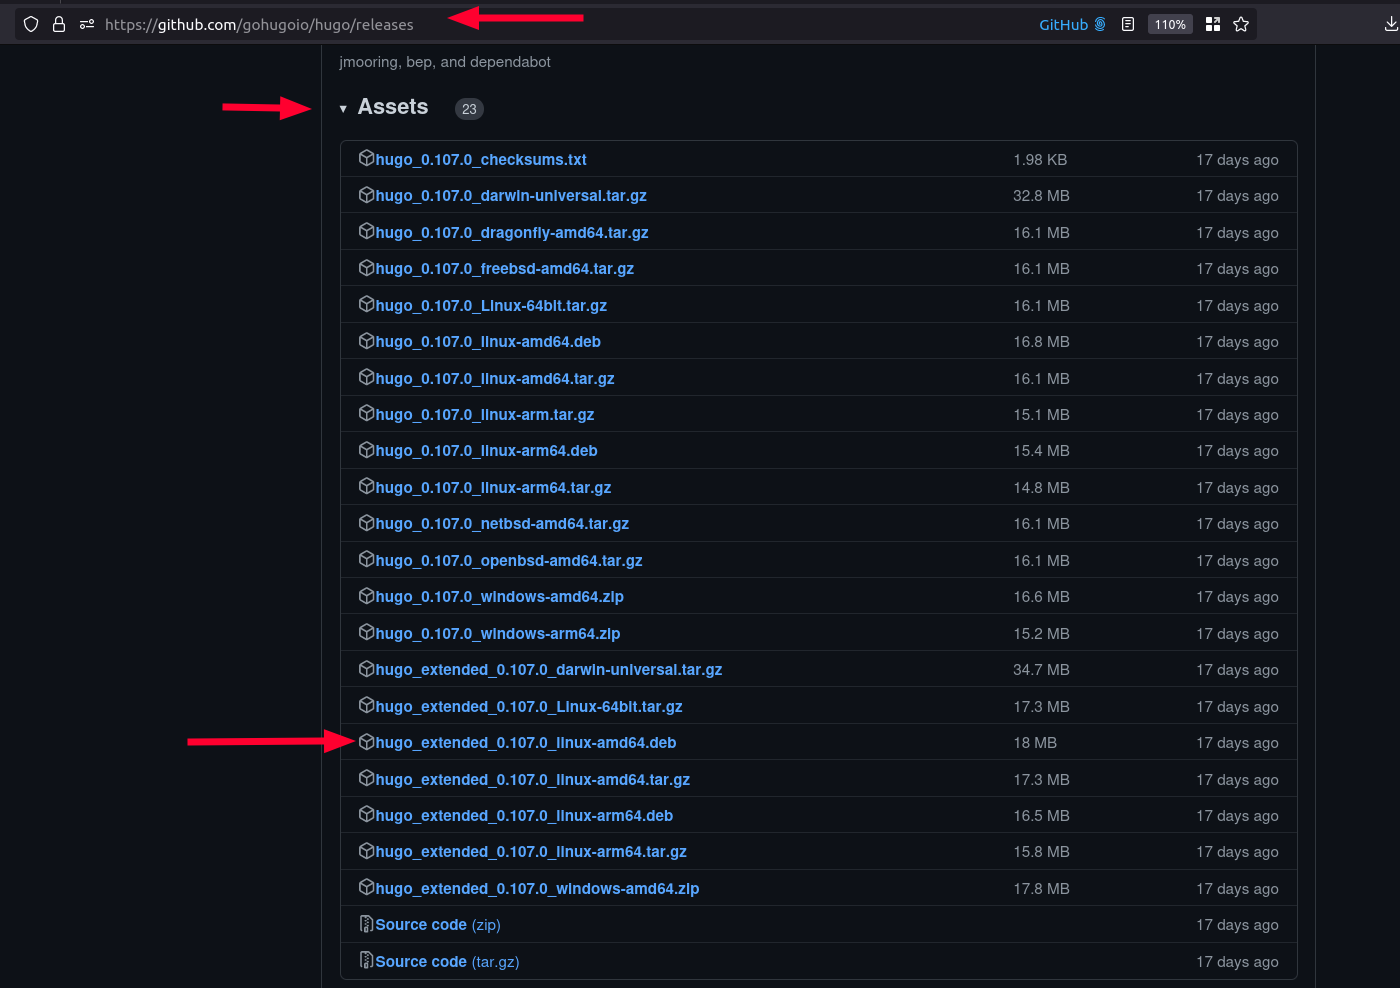
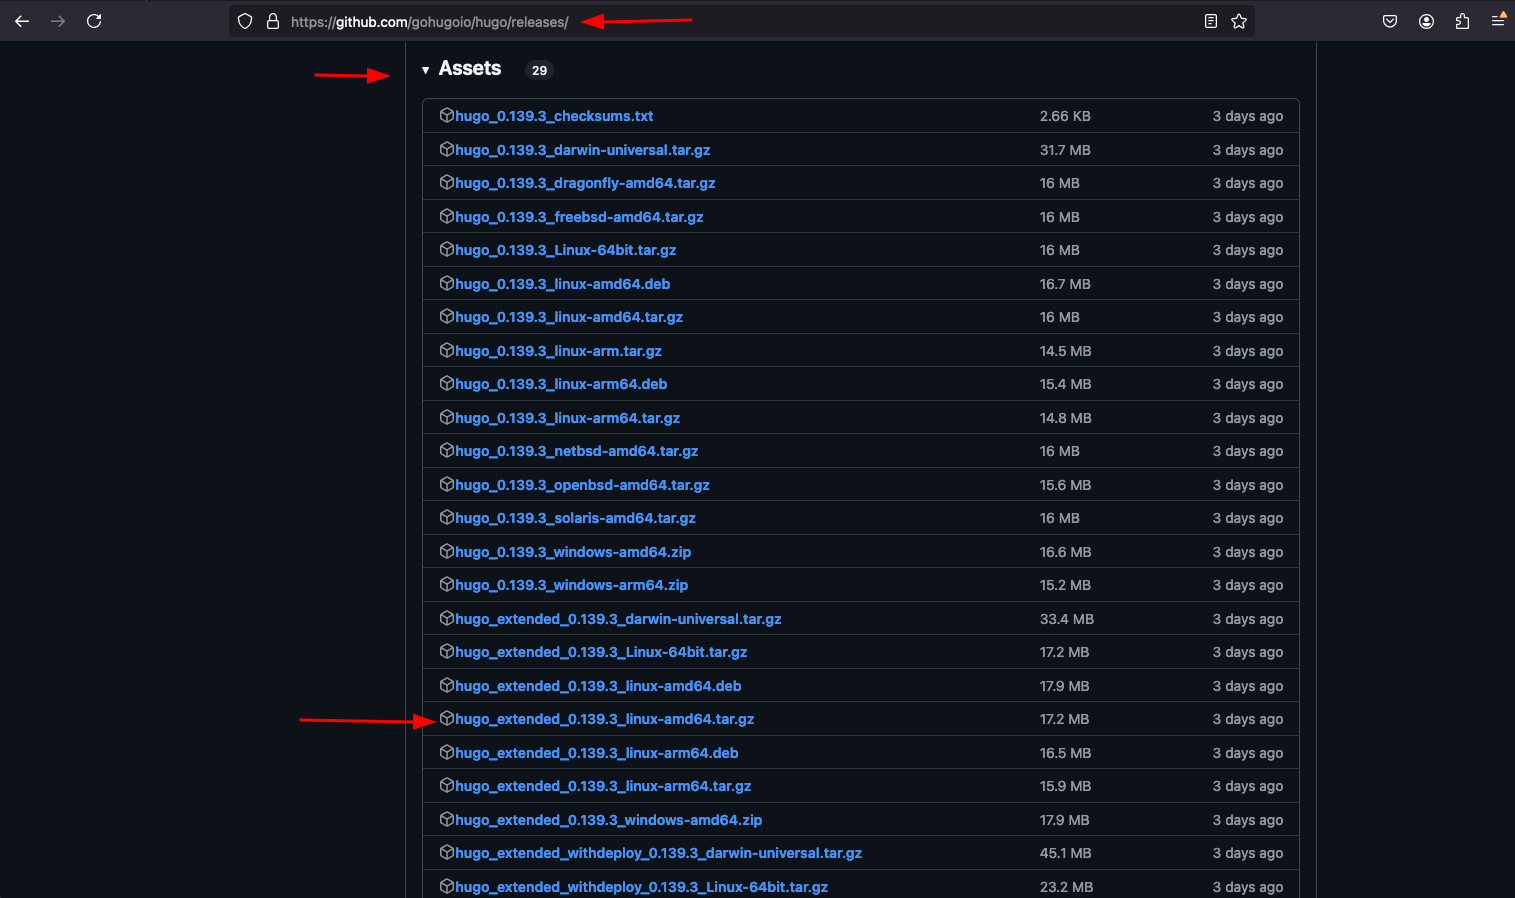
Update README to hugo v0.139.3

diff --git a/themes/hugo-bulma-blocks-theme/README.md b/themes/hugo-bulma-blocks-theme/README.md
@@ -249,7 +249,7 @@ You can find the extended version in the [releases page](https://github.com/gohu
 
 Download the deb above and then do 
 
-``sudo dpkg -i hugo_extended_0.107.0_linux-amd64.deb``
+``sudo dpkg -i hugo_extended_0.139.3_linux-amd64.deb``
 
 ### 🪟 Windows: 
 

diff --git a/README.md b/README.md
@@ -58,7 +58,7 @@ You can find the extended version in the [releases page](https://github.com/gohu
 
 Download the deb above and then do 
 
-``sudo dpkg -i hugo_extended_0.107.0_linux-amd64.deb``
+``sudo dpkg -i hugo_extended_0.139.3_linux-amd64.deb``
 
 ### 🪟 Windows: 
 
